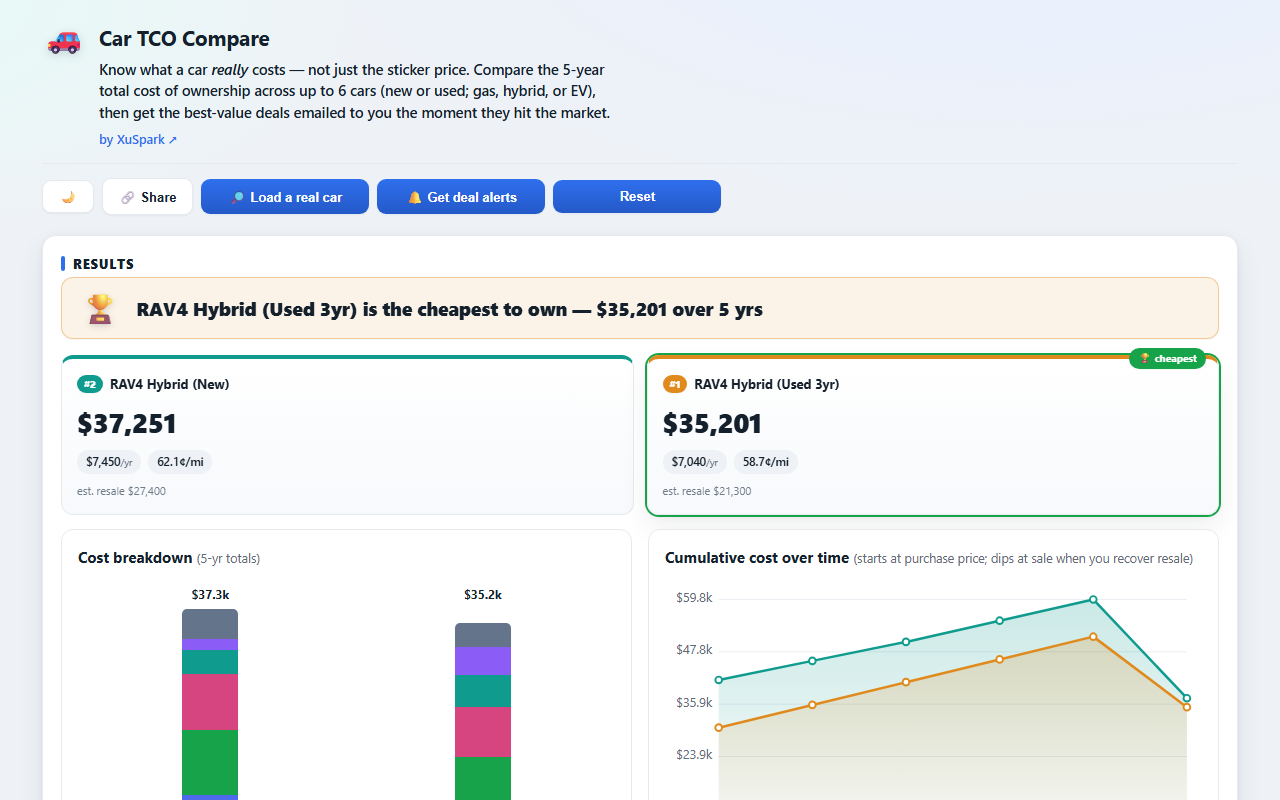
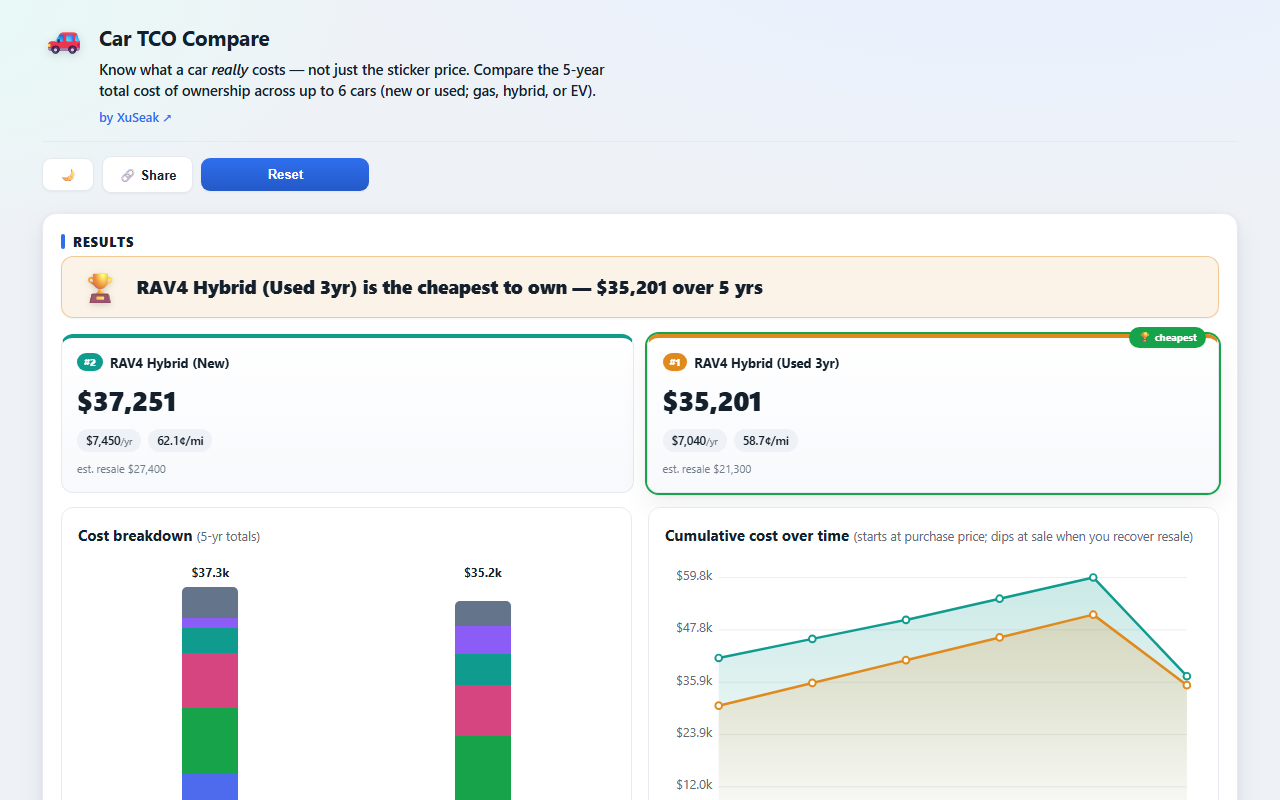
Car TCO Compare case: real listings and email alerts are paused (owner-approved text and screenshot)
The app took its Auto.dev listings and the Deal Alerts signup off the
public site on 2026-11-12 (car-tco-compare ADR-003, commit c66dd5b), but
this case still described a snapshot of real listings and an active
email-alert prototype, and its screenshot showed the removed buttons.

- content/portfolio.json: category, What I Built, How It Works, Where It
  Stands, the first limit, the caption and the hidden highlight tag now
  describe the comparator as it is, with the listings and the alert
  prototype paused to stay within the data provider's terms. Every other
  claim was re-checked on 2026-11-12 and kept; evidence date updated.
- assets/shots/car-tco-compare.png: retaken from the live app with the
  original headless Chrome command at 1280x800; visually reviewed, digest
  updated in assets/reviewed-images.json.
- Generated case, library and catalog pages rebuilt through build.mjs.
- docs/PUBLISHING.md: how to retake a screenshot, which was written down
  nowhere. PROJECT.md: dated change highlight.

The owner approved the text and image before publication and refreshed
the four affected name reviews. Tests pass (23), the full candidate gate
and the staged check pass.

diff --git a/projects/car-tco-compare/index.html b/projects/car-tco-compare/index.html
@@ -1,4 +1,4 @@
 <!doctype html><html lang="en"><head><meta charset="utf-8"><meta name="viewport" content="width=device-width, initial-scale=1">
 <title>Car TCO Compare — Xu Zhou (Lukas)</title><meta name="description" content="Compare the estimated cost of owning up to six cars, with assumptions you can change and a breakdown you can inspect.">
 <meta name="theme-color" content="#f7f7f2"><link rel="icon" href="/assets/favicon.svg" type="image/svg+xml">
-<script>(function(){var t;try{t=localStorage.getItem('theme')}catch(e){}if(t!=='light'&&t!=='dark')t=matchMedia('(prefers-color-scheme: dark)').matches?'dark':'light';document.documentElement.dataset.theme=t})();</script><link rel="stylesheet" href="/assets/site.css?v=e98fa5b47a25"><link rel="stylesheet" href="/assets/projects.css?v=c4037bfb3ec7"><script src="/assets/site.js?v=75f36cd0f8b9" defer></script><link rel="canonical" href="https://xzhou110.github.io/projects/car-tco-compare/"><meta property="og:title" content="Car TCO Compare — Xu Zhou (Lukas)"><meta property="og:description" content="Compare the estimated cost of owning up to six cars, with assumptions you can change and a breakdown you can inspect."></head><body id="top"><a class="skip" href="#main">Skip to Content</a><header class="site-header"><div class="shell topbar"><a class="brand" href="/">Xu Zhou (Lukas)</a><nav aria-label="Portfolio Sections"><a href="/projects/" aria-current="page">Work</a><a href="/#how">Approach</a><a href="/#skills">Skills</a><a href="/#contact">Contact</a></nav><div class="theme-picker" role="group" aria-label="Color Theme"><button type="button" data-set-theme="light" aria-pressed="false">Light</button><button type="button" data-set-theme="dark" aria-pressed="false">Dark</button></div></div></header><main class="shell collection-page" id="main"><a class="back-link" id="case-back" href="/#work">← Back to Selected Work</a><article class="case-page" data-project="car-tco-compare"><div class="case-hero"><div><p class="section-kicker">Cost Modeling &amp; Email Alerts</p><div class="case-title"><img class="project-icon" src="/assets/icons/car-tco-compare.svg?v=42e28e559c81" width="48" height="48" alt="" decoding="async" loading="lazy"><h1>Car TCO Compare</h1></div><p class="project-status">Live Web App</p><p class="case-intro">Compare the estimated cost of owning up to six cars, with assumptions you can change and a breakdown you can inspect.</p><div class="actions"><a class="button primary" href="https://xzhou110.github.io/car-tco-compare/" aria-label="Open App: Car TCO Compare">Open App ↗</a><a class="button" href="https://github.com/xzhou110/car-tco-compare" aria-label="View Source: Car TCO Compare">View Source ↗</a></div></div><figure class="project-preview"><div class="preview-image"><img src="/assets/shots/car-tco-compare.png" width="1280" height="800" alt="Car TCO Compare interface preview" loading="lazy" decoding="async"></div><figcaption>Public App Preview</figcaption></figure></div><p class="case-decision"><strong>Key Decision</strong>Make the assumptions editable so the ranking can be challenged.</p><h2>The Case Study</h2><div class="detail"><dl><dt>Problem</dt><dd>Sticker price and monthly payments leave out much of the cost of owning a car. I wanted to compare different vehicles under the same holding period, mileage, and financing assumptions, and inspect what changes the ranking.</dd><dt>What I Built</dt><dd>A car-ownership calculator with a seven-part cost model, side-by-side comparisons, cumulative cost charts, and a snapshot of real listings. A separate email-alert prototype ranks listings by estimated ownership cost.</dd><dt>How It Works</dt><dd>The pure TypeScript calculation engine is separate from the React interface and reused in Car Shopping. Listing snapshots keep the comparator static. Supabase, Resend, and scheduled GitHub Actions support the email-alert prototype with double opt-in.</dd><dt>Where It Stands</dt><dd>The comparator is publicly available, and its calculation engine is also used in Car Shopping. The email-alert backend remains a proof of concept; a commercial subscription service has not launched.</dd><dt>Evidence and Limits</dt><dd><ul><li>Cost assumptions are illustrative segment-level estimates, not predictions of an individual buyer’s expenses. Listings are snapshots, not guaranteed current inventory.</li><li>Engine tests cover calculations, depreciation, and vehicle resolution. The <a href="https://github.com/xzhou110/car-tco-compare/blob/main/docs/design/tco-model.md">model documentation</a> makes the assumptions inspectable.</li><li>The alerts prototype has a public <a href="https://github.com/xzhou110/car-tco-compare/blob/main/rav4-alert/review-findings.md">review record</a>. Historical checks are not a promise of current service reliability.</li></ul></dd><dt>Product Stack</dt><dd>React · TypeScript · Vite · Vitest · Supabase · Resend · GitHub Actions · GitHub Pages</dd><dt>Evidence As Of</dt><dd>2026-10-27</dd></dl><p class="caveat">Figures shown are illustrative estimates; the app states its cost assumptions are illustrative. Listings: Auto.dev snapshot. Source is public under the PolyForm Noncommercial license.</p></div></article><div class="actions"><a class="button" href="/projects/">Explore All 11 Projects</a><a class="button primary" href="mailto:xzhou110@gmail.com">Get in Touch ↗</a></div></main><footer class="shell"><a href="/#contact">Get in Touch</a><p>Xu Zhou (Lukas) · Independent Projects</p></footer></body></html>
+<script>(function(){var t;try{t=localStorage.getItem('theme')}catch(e){}if(t!=='light'&&t!=='dark')t=matchMedia('(prefers-color-scheme: dark)').matches?'dark':'light';document.documentElement.dataset.theme=t})();</script><link rel="stylesheet" href="/assets/site.css?v=e98fa5b47a25"><link rel="stylesheet" href="/assets/projects.css?v=c4037bfb3ec7"><script src="/assets/site.js?v=75f36cd0f8b9" defer></script><link rel="canonical" href="https://xzhou110.github.io/projects/car-tco-compare/"><meta property="og:title" content="Car TCO Compare — Xu Zhou (Lukas)"><meta property="og:description" content="Compare the estimated cost of owning up to six cars, with assumptions you can change and a breakdown you can inspect."></head><body id="top"><a class="skip" href="#main">Skip to Content</a><header class="site-header"><div class="shell topbar"><a class="brand" href="/">Xu Zhou (Lukas)</a><nav aria-label="Portfolio Sections"><a href="/projects/" aria-current="page">Work</a><a href="/#how">Approach</a><a href="/#skills">Skills</a><a href="/#contact">Contact</a></nav><div class="theme-picker" role="group" aria-label="Color Theme"><button type="button" data-set-theme="light" aria-pressed="false">Light</button><button type="button" data-set-theme="dark" aria-pressed="false">Dark</button></div></div></header><main class="shell collection-page" id="main"><a class="back-link" id="case-back" href="/#work">← Back to Selected Work</a><article class="case-page" data-project="car-tco-compare"><div class="case-hero"><div><p class="section-kicker">Cost Modeling &amp; Data Visualization</p><div class="case-title"><img class="project-icon" src="/assets/icons/car-tco-compare.svg?v=42e28e559c81" width="48" height="48" alt="" decoding="async" loading="lazy"><h1>Car TCO Compare</h1></div><p class="project-status">Live Web App</p><p class="case-intro">Compare the estimated cost of owning up to six cars, with assumptions you can change and a breakdown you can inspect.</p><div class="actions"><a class="button primary" href="https://xzhou110.github.io/car-tco-compare/" aria-label="Open App: Car TCO Compare">Open App ↗</a><a class="button" href="https://github.com/xzhou110/car-tco-compare" aria-label="View Source: Car TCO Compare">View Source ↗</a></div></div><figure class="project-preview"><div class="preview-image"><img src="/assets/shots/car-tco-compare.png" width="1280" height="800" alt="Car TCO Compare interface preview" loading="lazy" decoding="async"></div><figcaption>Public App Preview</figcaption></figure></div><p class="case-decision"><strong>Key Decision</strong>Make the assumptions editable so the ranking can be challenged.</p><h2>The Case Study</h2><div class="detail"><dl><dt>Problem</dt><dd>Sticker price and monthly payments leave out much of the cost of owning a car. I wanted to compare different vehicles under the same holding period, mileage, and financing assumptions, and inspect what changes the ranking.</dd><dt>What I Built</dt><dd>A car-ownership calculator with a seven-part cost model, side-by-side comparisons, and cumulative cost charts. Cars are entered by hand or loaded from presets and saved cars. A separate email-alert prototype ranked real listings by estimated ownership cost.</dd><dt>How It Works</dt><dd>The pure TypeScript calculation engine is separate from the React interface and reused in Car Shopping. The comparator runs entirely in the browser; inputs save locally and in a shareable link. Supabase, Resend, and scheduled GitHub Actions supported the email-alert prototype with double opt-in.</dd><dt>Where It Stands</dt><dd>The comparator is publicly available, and its calculation engine is also used in Car Shopping. On November 12, 2026, I paused the real listings and the email-alert prototype to stay within the data provider’s terms. The code is kept, so both can return under a license that allows public use. A commercial subscription service has not launched.</dd><dt>Evidence and Limits</dt><dd><ul><li>Cost assumptions are illustrative segment-level estimates, not predictions of an individual buyer’s expenses.</li><li>Engine tests cover calculations, depreciation, and vehicle resolution. The <a href="https://github.com/xzhou110/car-tco-compare/blob/main/docs/design/tco-model.md">model documentation</a> makes the assumptions inspectable.</li><li>The alerts prototype has a public <a href="https://github.com/xzhou110/car-tco-compare/blob/main/rav4-alert/review-findings.md">review record</a>. Historical checks are not a promise of current service reliability.</li></ul></dd><dt>Product Stack</dt><dd>React · TypeScript · Vite · Vitest · Supabase · Resend · GitHub Actions · GitHub Pages</dd><dt>Evidence As Of</dt><dd>2026-11-12</dd></dl><p class="caveat">Figures shown are illustrative estimates; the app states its cost assumptions are illustrative. Source is public under the PolyForm Noncommercial license.</p></div></article><div class="actions"><a class="button" href="/projects/">Explore All 11 Projects</a><a class="button primary" href="mailto:xzhou110@gmail.com">Get in Touch ↗</a></div></main><footer class="shell"><a href="/#contact">Get in Touch</a><p>Xu Zhou (Lukas) · Independent Projects</p></footer></body></html>

diff --git a/projects/index.html b/projects/index.html
@@ -6,4 +6,4 @@
 <article class="project-card" id="multi-agent-build-orchestrator" data-group="ai-tools"><a class="preview-link" href="/projects/multi-agent-build-orchestrator/" aria-label="Explore Multi-Agent Build Orchestrator"><figure class="project-preview"><svg class="preview-illustration" viewBox="0 0 560 360" role="img" aria-label="Multi-Agent Build Orchestrator: From Brief to Release" focusable="false"><foreignObject width="560" height="360"><div xmlns="http://www.w3.org/1999/xhtml" class="preview-art" aria-hidden="true"><div class="illustration"><div class="illustration-heading"><span class="illustration-mark">↳</span><strong>From Brief to Release</strong></div><ol class="workflow-steps"><li><span>01</span>Define the Brief</li><li><span>02</span>Plan and Assign</li><li><span>03</span>Build and Integrate</li><li><span>04</span>Review and Verify</li><li><span>05</span>Release</li></ol></div></div></foreignObject></svg><figcaption>Workflow illustration · human direction and review</figcaption></figure></a><div class="card-copy"><div class="project-title"><h3><a href="/projects/multi-agent-build-orchestrator/">Multi-Agent Build Orchestrator</a></h3></div><p class="card-summary">Coordinate AI coding agents from brief to release.</p><div class="card-bottom"><p class="project-status">Reusable Workflow</p><a class="explore-link" href="/projects/multi-agent-build-orchestrator/" aria-label="Read Case Study: Multi-Agent Build Orchestrator">View Case Study <span aria-hidden="true">↗</span></a></div></div></article>
 <article class="project-card" id="dream-laws" data-group="consumer"><a class="preview-link" href="/projects/dream-laws/" aria-label="Explore Dream Laws: Card Roguelike"><figure class="project-preview"><svg class="preview-illustration" viewBox="0 0 560 360" role="img" aria-label="Dream Laws: Card Roguelike: A Different Rule in Every Dream" focusable="false"><foreignObject width="560" height="360"><div xmlns="http://www.w3.org/1999/xhtml" class="preview-art" aria-hidden="true"><div class="illustration game-illustration"><div class="game-brand"><img class="project-icon" src="/assets/icons/dream-laws.png?v=410e85930d21" width="32" height="32" alt="" decoding="async" loading="lazy"><p class="small-label">Dream Laws</p></div><strong>A Different Rule in Every Dream</strong><div class="game-cards"><div><span>I</span><b>Choose a Route</b></div><div><span>II</span><b>Build a Deck</b></div><div><span>III</span><b>Adapt to the Dream</b></div></div></div></div></foreignObject></svg><figcaption>Game-system illustration · not a gameplay screenshot</figcaption></figure></a><div class="card-copy"><div class="project-title"><img class="project-icon" src="/assets/icons/dream-laws.png?v=410e85930d21" width="36" height="36" alt="" decoding="async" loading="lazy"><h3><a href="/projects/dream-laws/">Dream Laws: Card Roguelike</a></h3></div><p class="card-summary">Build a deck and adapt to changing game rules.</p><div class="card-bottom"><p class="project-status">TestFlight · In Development</p><a class="explore-link" href="/projects/dream-laws/" aria-label="Read Case Study: Dream Laws: Card Roguelike">View Case Study <span aria-hidden="true">↗</span></a></div></div></article>
 <article class="project-card" id="local-app-kit" data-group="ai-tools"><a class="preview-link" href="/projects/local-app-kit/" aria-label="Explore Local App Kit"><figure class="project-preview"><svg class="preview-illustration" viewBox="0 0 560 360" role="img" aria-label="Local App Kit: Shared Foundations for Local Apps" focusable="false"><foreignObject width="560" height="360"><div xmlns="http://www.w3.org/1999/xhtml" class="preview-art" aria-hidden="true"><div class="illustration"><div class="illustration-heading"><span class="illustration-mark">↳</span><strong>Shared Foundations for Local Apps</strong></div><ul class="connection-rows"><li><strong>Write</strong><span>Atomic Saves + Version Checks</span></li><li><strong>Serve</strong><span>Localhost Request Guards</span></li><li><strong>Recover</strong><span>Live Updates + Server Lock</span></li></ul></div></div></foreignObject></svg><figcaption>Architecture illustration · no runtime data</figcaption></figure></a><div class="card-copy"><div class="project-title"><h3><a href="/projects/local-app-kit/">Local App Kit</a></h3></div><p class="card-summary">Reusable storage and server tools for local apps.</p><div class="card-bottom"><p class="project-status">Public Package · v0.1.0</p><a class="explore-link" href="/projects/local-app-kit/" aria-label="Read Case Study: Local App Kit">View Case Study <span aria-hidden="true">↗</span></a></div></div></article>
-<article class="project-card" id="creator-advisors" data-group="knowledge"><a class="preview-link" href="/projects/creator-advisors/" aria-label="Explore Creator Advisors"><figure class="project-preview"><svg class="preview-illustration" viewBox="0 0 560 360" role="img" aria-label="Creator Advisors: Keep the Source Within Reach" focusable="false"><foreignObject width="560" height="360"><div xmlns="http://www.w3.org/1999/xhtml" class="preview-art" aria-hidden="true"><div class="illustration"><div class="illustration-heading"><img class="project-icon" src="/assets/icons/creator-advisors.svg?v=a472d17ea67e" width="32" height="32" alt="" decoding="async" loading="lazy"><strong>Keep the Source Within Reach</strong></div><ol class="workflow-steps"><li><span>01</span>Transcribe the Source</li><li><span>02</span>Check Quoted Wording</li><li><span>03</span>Connect the Ideas</li><li><span>04</span>Read with Citations</li></ol></div></div></foreignObject></svg><figcaption>Workflow illustration · no source excerpts or personal notes</figcaption></figure></a><div class="card-copy"><div class="project-title"><img class="project-icon" src="/assets/icons/creator-advisors.svg?v=a472d17ea67e" width="36" height="36" alt="" decoding="async" loading="lazy"><h3><a href="/projects/creator-advisors/">Creator Advisors</a></h3></div><p class="card-summary">Explore ideas from videos with source citations.</p><div class="card-bottom"><p class="project-status">Private Desktop App</p><a class="explore-link" href="/projects/creator-advisors/" aria-label="Read Case Study: Creator Advisors">View Case Study <span aria-hidden="true">↗</span></a></div></div></article></div><p id="no-results" class="empty-results" hidden>No projects match this search. Try a broader term or clear the filters.</p><nav class="pagination" id="library-pagination" aria-label="Project Pages"><span></span><span>Page 1 of 2</span><a class="button" rel="next" href="/projects/page/2/">Next →</a></nav><noscript><p class="library-notice">Use Previous and Next to browse every project. Search requires JavaScript.</p></noscript></section><script id="library-config" type="application/json">{"catalog":"/assets/project-catalog.json?v=e4e04b3e3741","engine":"/assets/project-library.mjs?v=abc2bf8d0aa2"}</script></main><footer class="shell"><a href="/#contact">Get in Touch</a><p>Xu Zhou (Lukas) · Independent Projects</p></footer></body></html>
+<article class="project-card" id="creator-advisors" data-group="knowledge"><a class="preview-link" href="/projects/creator-advisors/" aria-label="Explore Creator Advisors"><figure class="project-preview"><svg class="preview-illustration" viewBox="0 0 560 360" role="img" aria-label="Creator Advisors: Keep the Source Within Reach" focusable="false"><foreignObject width="560" height="360"><div xmlns="http://www.w3.org/1999/xhtml" class="preview-art" aria-hidden="true"><div class="illustration"><div class="illustration-heading"><img class="project-icon" src="/assets/icons/creator-advisors.svg?v=a472d17ea67e" width="32" height="32" alt="" decoding="async" loading="lazy"><strong>Keep the Source Within Reach</strong></div><ol class="workflow-steps"><li><span>01</span>Transcribe the Source</li><li><span>02</span>Check Quoted Wording</li><li><span>03</span>Connect the Ideas</li><li><span>04</span>Read with Citations</li></ol></div></div></foreignObject></svg><figcaption>Workflow illustration · no source excerpts or personal notes</figcaption></figure></a><div class="card-copy"><div class="project-title"><img class="project-icon" src="/assets/icons/creator-advisors.svg?v=a472d17ea67e" width="36" height="36" alt="" decoding="async" loading="lazy"><h3><a href="/projects/creator-advisors/">Creator Advisors</a></h3></div><p class="card-summary">Explore ideas from videos with source citations.</p><div class="card-bottom"><p class="project-status">Private Desktop App</p><a class="explore-link" href="/projects/creator-advisors/" aria-label="Read Case Study: Creator Advisors">View Case Study <span aria-hidden="true">↗</span></a></div></div></article></div><p id="no-results" class="empty-results" hidden>No projects match this search. Try a broader term or clear the filters.</p><nav class="pagination" id="library-pagination" aria-label="Project Pages"><span></span><span>Page 1 of 2</span><a class="button" rel="next" href="/projects/page/2/">Next →</a></nav><noscript><p class="library-notice">Use Previous and Next to browse every project. Search requires JavaScript.</p></noscript></section><script id="library-config" type="application/json">{"catalog":"/assets/project-catalog.json?v=ab8c579c0a80","engine":"/assets/project-library.mjs?v=abc2bf8d0aa2"}</script></main><footer class="shell"><a href="/#contact">Get in Touch</a><p>Xu Zhou (Lukas) · Independent Projects</p></footer></body></html>

diff --git a/projects/page/2/index.html b/projects/page/2/index.html
@@ -5,4 +5,4 @@
 <article class="project-card" id="apartment-shopping" data-group="consumer"><a class="preview-link" href="/projects/apartment-shopping/" aria-label="Explore Apartment Shopping"><figure class="project-preview"><div class="preview-image"><img src="/assets/shots/apartment-shopping.png" width="1280" height="800" alt="Apartment Shopping interface preview" loading="lazy" decoding="async"></div><figcaption>Public App Preview</figcaption></figure></a><div class="card-copy"><div class="project-title"><img class="project-icon" src="/assets/icons/apartment-shopping.svg?v=b7dcad2402cc" width="36" height="36" alt="" decoding="async" loading="lazy"><h3><a href="/projects/apartment-shopping/">Apartment Shopping</a></h3></div><p class="card-summary">Compare rentals and track the search.</p><div class="card-bottom"><p class="project-status">Live Web App</p><a class="explore-link" href="/projects/apartment-shopping/" aria-label="Read Case Study: Apartment Shopping">View Case Study <span aria-hidden="true">↗</span></a></div></div></article>
 <article class="project-card" id="ai-usage-tracker" data-group="ai-tools"><a class="preview-link" href="/projects/ai-usage-tracker/" aria-label="Explore AI Usage Tracker"><figure class="project-preview"><svg class="preview-illustration" viewBox="0 0 560 360" role="img" aria-label="AI Usage Tracker: AI Usage Tracker" focusable="false"><foreignObject width="560" height="360"><div xmlns="http://www.w3.org/1999/xhtml" class="preview-art" aria-hidden="true"><div class="illustration"><div class="illustration-heading"><img class="project-icon" src="/assets/icons/ai-usage-tracker.svg?v=fad21956253c" width="32" height="32" alt="" decoding="async" loading="lazy"><strong>AI Usage Tracker</strong></div><ul class="connection-rows"><li><strong>Codex</strong><span>Live Reading Verified</span></li><li><strong>Claude</strong><span>Awaiting Live Data</span></li><li><strong>Cursor</strong><span>Setup Pending</span></li></ul></div></div></foreignObject></svg><figcaption>Capability illustration · no account or usage data</figcaption></figure></a><div class="card-copy"><div class="project-title"><img class="project-icon" src="/assets/icons/ai-usage-tracker.svg?v=fad21956253c" width="36" height="36" alt="" decoding="async" loading="lazy"><h3><a href="/projects/ai-usage-tracker/">AI Usage Tracker</a></h3></div><p class="card-summary">Track AI usage limits and when they reset.</p><div class="card-bottom"><p class="project-status">Local App · Partial Integrations</p><a class="explore-link" href="/projects/ai-usage-tracker/" aria-label="Read Case Study: AI Usage Tracker">View Case Study <span aria-hidden="true">↗</span></a></div></div></article>
 <article class="project-card" id="project-workspace" data-group="knowledge"><a class="preview-link" href="/projects/project-workspace/" aria-label="Explore X Command Center"><figure class="project-preview"><svg class="preview-illustration" viewBox="0 0 560 360" role="img" aria-label="X Command Center: One Place to Find the Next Step" focusable="false"><foreignObject width="560" height="360"><div xmlns="http://www.w3.org/1999/xhtml" class="preview-art" aria-hidden="true"><div class="illustration"><div class="illustration-heading"><img class="project-icon" src="/assets/icons/project-workspace.svg?v=4d1c41b7649a" width="32" height="32" alt="" decoding="async" loading="lazy"><strong>One Place to Find the Next Step</strong></div><ul class="connection-rows"><li><strong>Projects</strong><span>Purpose and Progress</span></li><li><strong>Automations</strong><span>Schedules and Attention</span></li><li><strong>Learning</strong><span>Principles and History</span></li></ul></div></div></foreignObject></svg><figcaption>Capability illustration · no workspace or project data</figcaption></figure></a><div class="card-copy"><div class="project-title"><img class="project-icon" src="/assets/icons/project-workspace.svg?v=4d1c41b7649a" width="36" height="36" alt="" decoding="async" loading="lazy"><h3><a href="/projects/project-workspace/">X Command Center</a></h3></div><p class="card-summary">Track project progress and find the next step.</p><div class="card-bottom"><p class="project-status">Private Desktop App</p><a class="explore-link" href="/projects/project-workspace/" aria-label="Read Case Study: X Command Center">View Case Study <span aria-hidden="true">↗</span></a></div></div></article>
-<article class="project-card" id="knowledge-learning-system" data-group="knowledge"><a class="preview-link" href="/projects/knowledge-learning-system/" aria-label="Explore Wisdom &amp; Knowledge Base"><figure class="project-preview"><svg class="preview-illustration" viewBox="0 0 560 360" role="img" aria-label="Wisdom &amp; Knowledge Base: From Capture to Understanding" focusable="false"><foreignObject width="560" height="360"><div xmlns="http://www.w3.org/1999/xhtml" class="preview-art" aria-hidden="true"><div class="illustration"><div class="illustration-heading"><img class="project-icon" src="/assets/icons/knowledge-learning-system.svg?v=92969578c2f3" width="32" height="32" alt="" decoding="async" loading="lazy"><strong>From Capture to Understanding</strong></div><ol class="workflow-steps"><li><span>01</span>Capture Sources</li><li><span>02</span>Organize and Synthesize</li><li><span>03</span>Review in Context</li><li><span>04</span>Read and Practice</li></ol></div></div></foreignObject></svg><figcaption>Workflow illustration · no personal notes or source excerpts</figcaption></figure></a><div class="card-copy"><div class="project-title"><img class="project-icon" src="/assets/icons/knowledge-learning-system.svg?v=92969578c2f3" width="36" height="36" alt="" decoding="async" loading="lazy"><h3><a href="/projects/knowledge-learning-system/">Wisdom &amp; Knowledge Base</a></h3></div><p class="card-summary">Organize captured sources for review and practice.</p><div class="card-bottom"><p class="project-status">Private Learning System</p><a class="explore-link" href="/projects/knowledge-learning-system/" aria-label="Read Case Study: Wisdom &amp; Knowledge Base">View Case Study <span aria-hidden="true">↗</span></a></div></div></article></div><p id="no-results" class="empty-results" hidden>No projects match this search. Try a broader term or clear the filters.</p><nav class="pagination" id="library-pagination" aria-label="Project Pages"><a class="button" rel="prev" href="/projects/">← Previous</a><span>Page 2 of 2</span><span></span></nav><noscript><p class="library-notice">Use Previous and Next to browse every project. Search requires JavaScript.</p></noscript></section><script id="library-config" type="application/json">{"catalog":"/assets/project-catalog.json?v=e4e04b3e3741","engine":"/assets/project-library.mjs?v=abc2bf8d0aa2"}</script></main><footer class="shell"><a href="/#contact">Get in Touch</a><p>Xu Zhou (Lukas) · Independent Projects</p></footer></body></html>
+<article class="project-card" id="knowledge-learning-system" data-group="knowledge"><a class="preview-link" href="/projects/knowledge-learning-system/" aria-label="Explore Wisdom &amp; Knowledge Base"><figure class="project-preview"><svg class="preview-illustration" viewBox="0 0 560 360" role="img" aria-label="Wisdom &amp; Knowledge Base: From Capture to Understanding" focusable="false"><foreignObject width="560" height="360"><div xmlns="http://www.w3.org/1999/xhtml" class="preview-art" aria-hidden="true"><div class="illustration"><div class="illustration-heading"><img class="project-icon" src="/assets/icons/knowledge-learning-system.svg?v=92969578c2f3" width="32" height="32" alt="" decoding="async" loading="lazy"><strong>From Capture to Understanding</strong></div><ol class="workflow-steps"><li><span>01</span>Capture Sources</li><li><span>02</span>Organize and Synthesize</li><li><span>03</span>Review in Context</li><li><span>04</span>Read and Practice</li></ol></div></div></foreignObject></svg><figcaption>Workflow illustration · no personal notes or source excerpts</figcaption></figure></a><div class="card-copy"><div class="project-title"><img class="project-icon" src="/assets/icons/knowledge-learning-system.svg?v=92969578c2f3" width="36" height="36" alt="" decoding="async" loading="lazy"><h3><a href="/projects/knowledge-learning-system/">Wisdom &amp; Knowledge Base</a></h3></div><p class="card-summary">Organize captured sources for review and practice.</p><div class="card-bottom"><p class="project-status">Private Learning System</p><a class="explore-link" href="/projects/knowledge-learning-system/" aria-label="Read Case Study: Wisdom &amp; Knowledge Base">View Case Study <span aria-hidden="true">↗</span></a></div></div></article></div><p id="no-results" class="empty-results" hidden>No projects match this search. Try a broader term or clear the filters.</p><nav class="pagination" id="library-pagination" aria-label="Project Pages"><a class="button" rel="prev" href="/projects/">← Previous</a><span>Page 2 of 2</span><span></span></nav><noscript><p class="library-notice">Use Previous and Next to browse every project. Search requires JavaScript.</p></noscript></section><script id="library-config" type="application/json">{"catalog":"/assets/project-catalog.json?v=ab8c579c0a80","engine":"/assets/project-library.mjs?v=abc2bf8d0aa2"}</script></main><footer class="shell"><a href="/#contact">Get in Touch</a><p>Xu Zhou (Lukas) · Independent Projects</p></footer></body></html>

diff --git a/PROJECT.md b/PROJECT.md
@@ -5,7 +5,7 @@ summary: Public employer-facing portfolio with three visual highlights, an eleve
 status: live
 live: https://xzhou110.github.io/
 repo: https://github.com/xzhou110/xzhou110.github.io
-updated: 2026-10-27
+updated: 2026-11-12
 started: 2026-10-01
 category: products
 phase: polishing
@@ -76,6 +76,8 @@ The workspace project index, shared launch configuration, and personal project r
 The workspace index, launcher, collector registrations, repository-name exception, support/privacy page paths, and legacy redirect were checked during the October 27 refresh. The index description now reflects the bounded homepage and full library. The ignored launcher uses this project's `serve.mjs` on the existing port so nested cases and static library pages are served; it exposes only public output and assets. Generated workspace snapshots remain the collector's output.
 
 ### Change Highlights
+
+- 2026-11-12: Car TCO Compare case brought in line with the app after its real listings and email-alert prototype were paused over the data provider's terms (that project's ADR-003). Category, What I Built, How It Works, Where It Stands, the first limit, the caption and the evidence date changed; everything else was re-checked and kept. The screenshot was retaken from the live app (method in [Publishing](docs/PUBLISHING.md)), visually reviewed and its digest updated. Owner approved the text and image before publication; the four affected name reviews were refreshed by the owner.
 
 - 2026-10-30: Dream Laws privacy policy, App Updates: the update check's random installation token is named (owner's "Yes, add it"); effective date October 30, 2026. The build first stopped with no finding: an orphaned `serve.mjs` from a closed session held the root `index.html` open through a stalled response, so the gate's rename over it failed with EPERM, which the build's catch reports only as "Build stopped". Removing the held generated copy let the build write a fresh one; the orphan was left for the owner. The trap and the holder-finding script are in agent-skills (`rules/machine-windows.md`, `scripts/who-holds-file.ps1`). Editing this file needs its name review refreshed (see [Publishing](docs/PUBLISHING.md)); done for this revision.
 

diff --git a/docs/PUBLISHING.md b/docs/PUBLISHING.md
@@ -8,6 +8,16 @@ The gate checks all candidate public files, including source, documentation, unt
 
 Text scanning cannot inspect image pixels. Changed PNGs need visual privacy review and an updated digest in `assets/reviewed-images.json`. Unknown binaries remain blocked.
 
+## Retake a Screenshot
+
+The build never fetches screenshots. When a public app changes, retake its preview by hand with the headless Chrome command the first build used (from `build.mjs` in commit `ff247cf`), so size and framing match the other previews: 1280 by 800, the viewport is the image, scrollbars hidden. Run Google Chrome's own `chrome.exe` (in its Program Files folder) and write to a temporary folder first, with a throwaway profile:
+
+```sh
+chrome.exe --headless=new --disable-gpu --no-first-run --no-default-browser-check --user-data-dir=<temp>/portfolio-chrome-profile --hide-scrollbars --window-size=1280,800 --virtual-time-budget=8000 --screenshot=<temp>/<id>.png <live app URL>
+```
+
+Look at the image beside the one it replaces (no personal data, only the app's own demo content, nothing the case no longer claims), copy it to `assets/shots/<id>.png`, put its SHA-256 in `assets/reviewed-images.json`, and show the owner both images before publishing. First used this way on 2026-11-12 for Car TCO Compare.
+
 ## Maintain a Public Name Review
 
 An owner may authorize a case-study name that an older private-name rule still blocks. Keep the rule. A local `nameReviews` entry contains `file`, `name`, and `sha256`, and applies only to that literal in that file's exact reviewed UTF-8 text, with CRLF normalized to LF.
